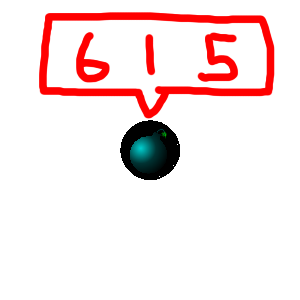
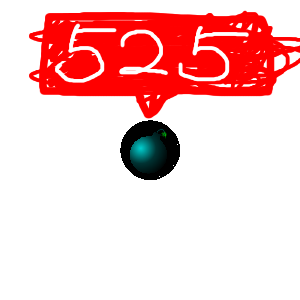
minor bug fixes

Changed region(s): [[0.09, 0.03, 1.0, 0.36]]

diff --git a/Resources/images/extractGB.py b/Resources/images/extractGB.py
@@ -20,9 +20,9 @@ def extract_red_channel(input_path, output_path):
         
         # Set green and blue channels to 0
         # RGB is represented as [r, g, b] in the last dimension
-        img_array[:, :, 0] = 0  # Red channel
-        # img_array[:, :, 1] = 0  # Green channel
-        # img_array[:, :, 2] = 0  # Blue channel
+        # img_array[:, :, 0] = 0  # Red channel
+        img_array[:, :, 1] = 0  # Green channel
+        img_array[:, :, 2] = 0  # Blue channel
         
         # Convert back to PIL Image
         red_only_img = Image.fromarray(img_array)
@@ -40,10 +40,10 @@ def extract_red_channel(input_path, output_path):
 # Example usage
 if __name__ == "__main__":
     # Replace these with your actual file paths
-    path = rf"./buttons/maps/"
-    monke_name = "peaceful_map"
+    path = rf"./monke/placable/"
+    monke_name = "tack"
     file_type = "png"
-    color_name = "yellow"
+    color_name = "red"
     input_image_path = rf"{path}{monke_name}.{file_type}"
     output_image_path = rf"{path}{monke_name}_{color_name}.{file_type}"
     

diff --git a/include/CONSTANTS/MONKEY.hpp b/include/CONSTANTS/MONKEY.hpp
@@ -17,7 +17,7 @@ namespace CONSTANTS::MONKEY {
 	} Monke;
 	
 	constexpr Monke DART {
-		215,
+		170,
 		30,
 		100,
 		11,
@@ -28,9 +28,9 @@ namespace CONSTANTS::MONKEY {
 	};
 	
 	constexpr Monke SUPER {
-		3400,
+		2125,
 		40,
-		140,
+		170,
 		11,
 		-24,
 		2,
@@ -39,7 +39,7 @@ namespace CONSTANTS::MONKEY {
 	};
 	
 	constexpr Monke ICE {
-		225,
+		375,
 		30,
 		60,
 		0,
@@ -50,34 +50,34 @@ namespace CONSTANTS::MONKEY {
 	};
 	
 	constexpr Monke BOMB {
-		615,
+		525,
 		30,
-		120,
+		130,
 		20,
 		0,
-		40,
+		45,
 		RESOURCE_DIR"/images/monke/bomb/",
 		1.5,
 	};
 	
 	constexpr Monke TACK {
-		305,
+		220,
 		30,
 		70,
 		0,
 		0,
-		45,
+		28,
 		RESOURCE_DIR"/images/monke/tack.png",
 		1.5,
 	};
 	
 	constexpr Monke BOOMERANG {
-		440,
-		30,
+		265,
+		34,
 		130,
 		11,
 		-24,
-		37,
+		36,
 		RESOURCE_DIR"/images/monke/boomerang.png",
 		1.5,
 	};

diff --git a/src/logics/MainGame.cpp b/src/logics/MainGame.cpp
@@ -104,6 +104,10 @@ void MainGame::init(const CONSTANTS::TYPE::MAP& map_type) {
 	}
 	AddChild(m_map);
 
+	// resets autoplay state
+	m_autoplay = false;
+	m_autoplay_obj->SetVisible(false);
+
 	// get path manager from map object
 	auto m_path_manager = m_map->get_path_manager();
 
@@ -128,7 +132,7 @@ void MainGame::update() {
 
 	// wave update
 	m_wave_manager->update(m_bloon_manager);
-
+	
 	// auto
 	if (m_autoplay && !m_wave_manager->is_wave_in_progress()) m_wave_manager->set_spawn_new_wave();
 
@@ -151,6 +155,9 @@ void MainGame::update() {
 	m_projectile_manager->add_new_projectiles(
 		m_monkey_manager->get_new_projectiles()
 	);
+	
+	// clear projectiles if wave ended
+	if (!m_wave_manager->is_wave_in_progress()) m_projectile_manager->clear_all_projectiles();
 
 	// remove projectiles from monkey manager
 	m_monkey_manager->clear_new_projectiles();

diff --git a/src/handlers/BloonManager.cpp b/src/handlers/BloonManager.cpp
@@ -32,7 +32,7 @@ void BloonManager::update(const std::shared_ptr<handlers::PathManager>& path_man
 
 		// Check if bloon reached the end
 		if (bloon->is_at_end()) {
-			game_hp->sub_value(bloon->get_hp());
+			game_hp->sub_value(bloon->get_damage());
 			should_remove = true;
 		}
 
@@ -173,6 +173,11 @@ void BloonManager::handle_bloon_destruction(const std::shared_ptr<bloons::BaseBl
 	
 	// Handle special effects based on bloon type
 	switch (bloon->get_type()) {
+	case CONSTANTS::TYPE::BLOON::MOAB: {
+		// MOAB bloons spawn 4 CERAMIC bloons when destroyed
+		spawn_child_bloons(bloon, CONSTANTS::TYPE::BLOON::CERAMIC, 4);
+	}
+	break;
 	case CONSTANTS::TYPE::BLOON::CERAMIC: {
 		// ceramic bloons spawn 4 rainbow bloons when destroyed
 		spawn_child_bloons(bloon, CONSTANTS::TYPE::BLOON::RAINBOW, 4);

diff --git a/include/CONSTANTS/PROJECTILE.hpp b/include/CONSTANTS/PROJECTILE.hpp
@@ -15,7 +15,7 @@ namespace CONSTANTS::PROJECTILE {
 		2,
 		1,
 		15,
-		20,
+		22,
 		0.0f, // doesn't matter
 	};
 
@@ -31,7 +31,7 @@ namespace CONSTANTS::PROJECTILE {
 		1,
 		0,
 		3,
-		20,
+		40,
 		0, // doesn't matter
 	};
 
@@ -46,8 +46,8 @@ namespace CONSTANTS::PROJECTILE {
 	constexpr Projectile SUPER {
 		1,
 		1,
-		15,
-		1,
+		10,
+		2,
 		20.0f
 	};
 
@@ -55,7 +55,7 @@ namespace CONSTANTS::PROJECTILE {
 		1,
 		1,
 		25,
-		3,
+		5,
 		0.0f // doesn't matter
 	};
 
@@ -63,7 +63,7 @@ namespace CONSTANTS::PROJECTILE {
 		1,
 		0,
 		7,
-		1,
+		2,
 		20.0f
 	};
 
@@ -72,7 +72,7 @@ namespace CONSTANTS::PROJECTILE {
 		6,
 		30,
 		100,
-		30.0f
+		50.0f
 	};
 }
 

diff --git a/src/placement/MonkeyPlacementController.cpp b/src/placement/MonkeyPlacementController.cpp
@@ -97,7 +97,7 @@ void MonkeyPlacementController::set_monkey(const CONSTANTS::TYPE::PLACABLE& type
 	m_Transform.scale = {monke_stat.IMAGE_SCALE,monke_stat.IMAGE_SCALE};
 	std::string filetype = ".png";
 
-	std::string prefix = RESOURCE_DIR"/images/monke/";
+	std::string prefix = RESOURCE_DIR"/images/monke/placable/";
 	std::string placable_path = prefix + monke_name + filetype;
 	std::string unplacable_path = prefix + monke_name + "_red" + filetype;
 

diff --git a/src/projectiles/BoomerangProjectile.cpp b/src/projectiles/BoomerangProjectile.cpp
@@ -13,6 +13,7 @@ namespace projectiles {
 
 BoomerangProjectile::BoomerangProjectile(const glm::vec2& position, float rotation) : BaseProjectile() {
 	m_hitbox = std::make_shared<hitboxes::OvalHitbox>(position, glm::vec2(10,30), rotation+M_PI/6);
+	m_Transform.translation = position;
 	
 	for (auto& move_dir: move_direction_reference_vector) {
 		m_move_direction_vec.push_back(utility::rotate_vec2(move_dir, rotation));

diff --git a/src/map/implementation/TeleportMap.cpp b/src/map/implementation/TeleportMap.cpp
@@ -69,8 +69,8 @@ TeleportMap::TeleportMap() {
 	};
 
 	m_animations_vec = {
-		std::make_shared<Util::Animation>(anim1,false,42,false),
-		std::make_shared<Util::Animation>(anim2,false,42,false),
+		std::make_shared<Util::Animation>(anim1,true,42,false),
+		std::make_shared<Util::Animation>(anim2,true,42,false),
 	};
 	
 	m_animation = m_animations_vec.at(1);

diff --git a/src/handlers/ProjectileManager.cpp b/src/handlers/ProjectileManager.cpp
@@ -65,7 +65,12 @@ void ProjectileManager::process_removal() {
 }
 
 void ProjectileManager::clear_all_projectiles() {
+	if (!m_all_projectiles.size()) return;
+	
 	for (const auto& projectile: m_all_projectiles) {
+		RemoveChild(projectile);
+	}
+	for (const auto& projectile: m_removal_queue) {
 		RemoveChild(projectile);
 	}
 	

diff --git a/src/projectiles/BombExplosion.cpp b/src/projectiles/BombExplosion.cpp
@@ -13,6 +13,7 @@ namespace projectiles {
 
 BombExplosion::BombExplosion(const glm::vec2& position, float rotation) : BaseProjectile() {
 	m_hitbox = std::make_shared<hitboxes::RectangularHitbox>(position, glm::vec2(10,20), rotation);
+	m_Transform.translation = position;
 	
 	auto stat = CONSTANTS::PROJECTILE::EXPLOSION;
 	

diff --git a/src/projectiles/SuperProjectile.cpp b/src/projectiles/SuperProjectile.cpp
@@ -12,6 +12,7 @@ namespace projectiles {
 
 SuperProjectile::SuperProjectile(const glm::vec2& position, float rotation) : BaseProjectile() {
 	m_hitbox = std::make_shared<hitboxes::RectangularHitbox>(position, glm::vec2(10,20), rotation);
+	m_Transform.translation = position;
 	
 	auto stat = CONSTANTS::PROJECTILE::SUPER;
 	

diff --git a/src/projectiles/BombProjectile.cpp b/src/projectiles/BombProjectile.cpp
@@ -12,6 +12,7 @@ namespace projectiles {
 
 BombProjectile::BombProjectile(const glm::vec2& position, float rotation) : BaseProjectile() {
 	m_hitbox = std::make_shared<hitboxes::RectangularHitbox>(position, glm::vec2(10,20), rotation);
+	m_Transform.translation = position;
 	
 	auto stat = CONSTANTS::PROJECTILE::BOMB;
 	
